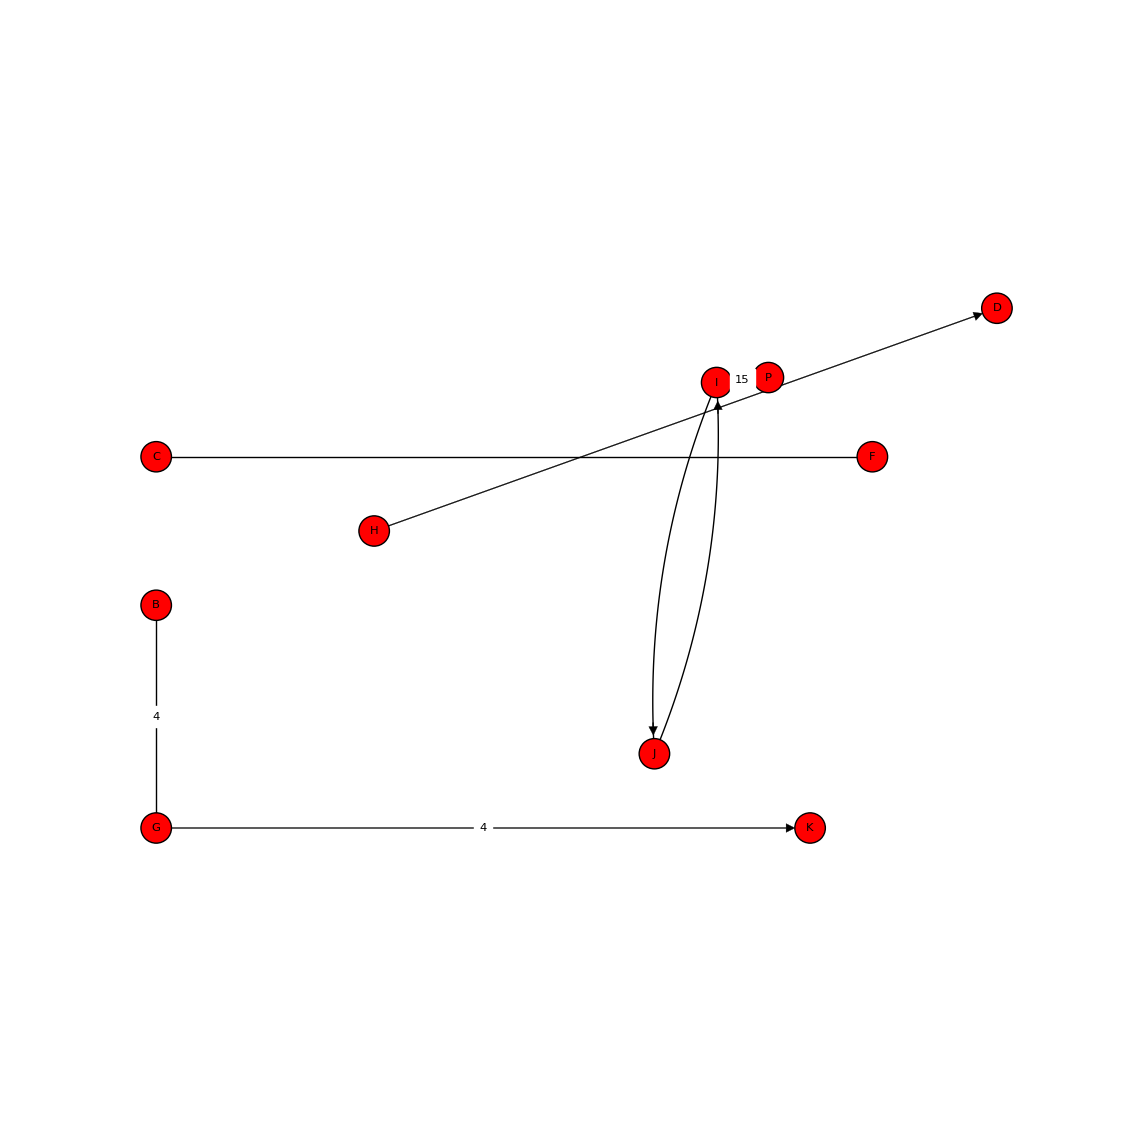
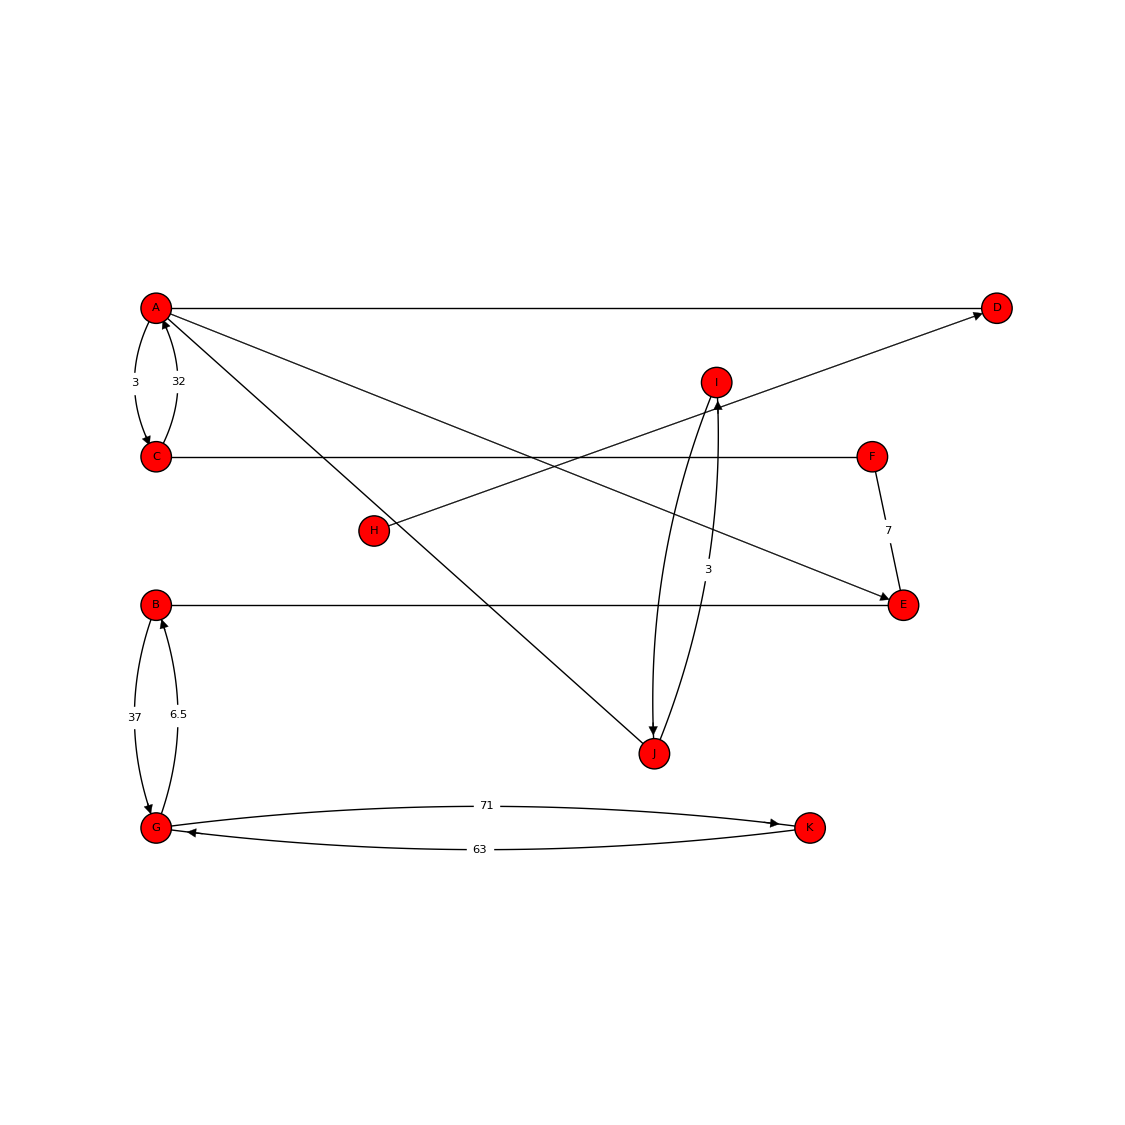
A few bug fixes with directed edges

diff --git a/graph.py b/graph.py
@@ -70,10 +70,10 @@ class Graph():
         # Check if the other edge exists
         other_edge : Edge = self.E.get((destination_name, source_name))
         
-        # If we want 2 directed edges but they have the same weight then there's no point in making a curved line
-        # So we will make them the same edge instead so that the graph is not unnecessarily complicated
-        if not both and weight is not None and other_edge is not None and other_edge.weight == weight :
-            both = True
+        # # If we want 2 directed edges but they have the same weight then there's no point in making a curved line
+        # # So we will make them the same edge instead so that the graph is not unnecessarily complicated
+        # if not both and weight is not None and other_edge is not None and other_edge.weight == weight :
+        #     both = True
             
         # Get the source and destination vertices
         sourcev : Vertex = self.V.get(source_name)
@@ -118,7 +118,7 @@ class Graph():
             BtoA.plotrep["visual"] = visual_edge
             
             # Then re-add the edg eweight
-            AtoB.set_weight(AtoB.weight)
+            AtoB.set_weight(AtoB.weight, consistent=False)
             
         # If the reverse edge from B to A doesn't exist, then we don't have to do anything else
         # But if it does exist, then we will have to change its visual representaton (curved arrow) to avoid clipping
@@ -140,7 +140,7 @@ class Graph():
             # Add its visual plot representation back
             other_edge.plotrep["visual"] = visual_edge
             other_edge.plotrep["arrow"] = visual_arrow
-            other_edge.set_weight(other_edge.weight)
+            other_edge.set_weight(other_edge.weight, consistent=False)
             
             # Now we will create the new edge to replace the visual representation of the edge we just added
             visual_arrow2, visual_edge2, mid2_x, mid2_y = curved_directed_edge_arrow(sourcev,destv,0.025,self.ax)
@@ -149,7 +149,7 @@ class Graph():
             edge_just_added.midpoint = [mid2_x, mid2_y]  
             edge_just_added.plotrep["arrow"] = visual_arrow2     
             edge_just_added.plotrep["visual"] = visual_edge2
-            edge_just_added.set_weight(edge_just_added.weight)
+            edge_just_added.set_weight(edge_just_added.weight, consistent = False)
 
             
     # Add a directed edge to the graph - may or may not have an edge weight attached
@@ -171,7 +171,7 @@ class Graph():
 
 
     # Remove an edge from the graph; both states where it should be a bidirectional removal or just one
-    def remove_edge(self, source_name, destination_name, both=False):
+    def remove_edge(self, source_name : str, destination_name : str, both : bool = False):
         
         self.remove_directed_edge(source_name, destination_name)
         
@@ -216,14 +216,17 @@ class Graph():
             
             # Need to update the midpoint of the other edge as well
             other_edge.midpoint = [ (source_vertex.x + dest_vertex.x)/2 , (source_vertex.y + dest_vertex.y) / 2 ] 
-            
-            # Add its edge weight back again
-            other_edge.set_weight(other_edge.weight)
-               
+                
         # Delete all references to the edge so it is eligible for garbage collection
         del self.E[(source_name, destination_name)]
         del dest_vertex.incoming_edges[source_name]
         del source_vertex.outgoing_edges[destination_name]
+        
+        # We need to wait until after the vertex references have been deleted before we set the weight again
+        if other_edge is not None:
+            
+            # Add its edge weight back again
+            other_edge.set_weight(other_edge.weight, consistent= False)
         
         
     # Remove a vertex from the graph and its representation
@@ -342,7 +345,7 @@ class Vertex():
         edge.plotrep.update({ "visual" : visual_edge })
         
         # Add the weight of the edge
-        edge.set_weight(weight)
+        edge.set_weight(weight, consistent=False)
 
         # Add the edge to our list of edges
         self.outgoing_edges.update({ dest.name : dest })
@@ -380,7 +383,8 @@ class Edge():
             
     # Set the edge's weight and add it to the graphical representation
     # Default value is None, so by not specifying any input you remove the edge weight
-    def set_weight(self, val : float = None) -> None:
+    # The consistent boolean will try to ensure consistent edge weights
+    def set_weight(self, val : float = None, consistent : bool = True) -> None:
     
         # Delete the existing weight text if it exists
         if self.plotrep.get("text") is not None:
@@ -390,14 +394,26 @@ class Edge():
         # Update the weight to the specified value
         self.weight = val
         
+        # Check if this edge is a directed edge with a counterpart
+        # If we have an arrow as a plot prop, then there must be a counterpart edge from B to A with different weight
+        double_arrow = self.plotrep.get("arrow") is not None
+        
+        # Check if the other edge from destination to source exists
+        other_edge : Edge = self.owner.get_edge(self.destination.name, self.source.name)
+        
+        # If we have no double arrow, we are a single bidirectional edge then
+        # we must update the counterpart edge's weight as well to prevent inconsistency
+        if consistent and not double_arrow and other_edge is not None and other_edge.weight != val:
+            other_edge.set_weight(val)
+        
         # If the weight actually exists: otherwise, don't bother
-        if self.weight is not None:
+        if self.weight is not None: 
             
             # Get the radius of the vertex as it is used to determine the fontsize
             radius = self.source.radius
             
             # Place the text on the plot
-            weight_text = plt.text(*self.midpoint, self.weight, 
+            weight_text = self.ax.text(*self.midpoint, self.weight, 
                                     fontsize = 150*np.pi*radius,
                                     color="black",
                                     zorder=200, 

diff --git a/graph_methods.py b/graph_methods.py
@@ -4,7 +4,7 @@ import matplotlib.pyplot as plt
 px = 1/96
 res=100
 
-# Import the graph object structure from our graph py file
+# Import the graph object structure from our graph.py file
 from graph import Graph
                
 # Compress the string so that any leading whitespaces, either vertically
@@ -321,37 +321,51 @@ print("------------")
 # G.add_edge("B","A", both=False)
 
 G.add_edge("G","K")
-G.add_edge("K","G")
+G.add_edge("K","G", both=True)
 
 G.add_edge("H","D")
 G.add_edge("D","H")
 
 G.get_edge("G","K").set_weight(4)
+G.get_edge("K","G").set_weight(69)
 
-G.remove_edge("K","G")
+print("weights" , G.get_edge("G","K").weight)
+
+# G.remove_edge("K","G")
 
 G.get_edge("F","E").set_weight(3)
 
-G.get_edge("F","E").set_weight()
+G.get_edge("E","F").set_weight(2)
+
+G.add_edge("E","F", weight = 7, both=True)
 
 G.remove_edge("D","H")
 
-G.add_edge("B","G", both=True, weight=4)
+G.add_edge("J","I", weight=4)
 
-print(G.get_edge("G","B").weight)
+G.get_edge("J","I").set_weight(3)
+
+print(G.get_edge("J","I").weight)
+
+print(G.get_edge("I","J").weight)
+
+G.remove_edge("G","K", both=True)
+
+G.add_edge("G","K", weight=71)
+G.add_edge("K","G", weight = 63)
 
 #G.remove_edge("E","A",True)
 
-G.remove_vertex("E")
-G.remove_vertex("A")
+# G.remove_vertex("E")
+# G.remove_vertex("A")
 
-F = G.get_vertex("F")
+# F = G.get_vertex("F")
 
-print(F.x,F.y)
+# print(F.x,F.y)
 
-G.add_vertex("P", 0.72, 0.72, G.get_vertex("F").radius)
+# G.add_vertex("P", 0.72, 0.72, G.get_vertex("F").radius)
 
-G.add_edge("I","P", both=True, weight=15)
+# G.add_edge("I","P", both=True, weight=15)
 
 # G.add_edge("G","B")
 # G.add_edge("B","G")
